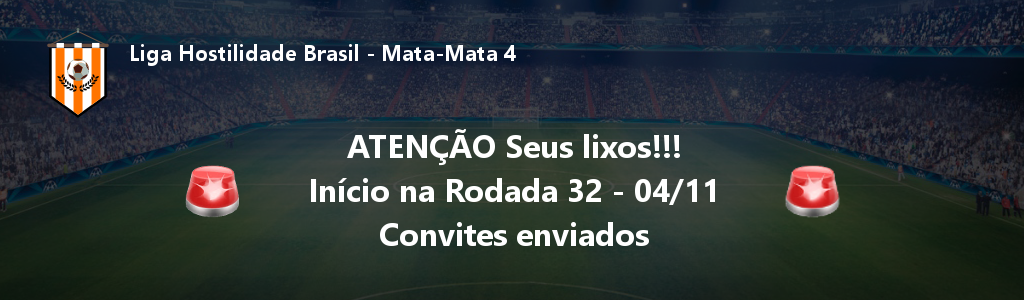
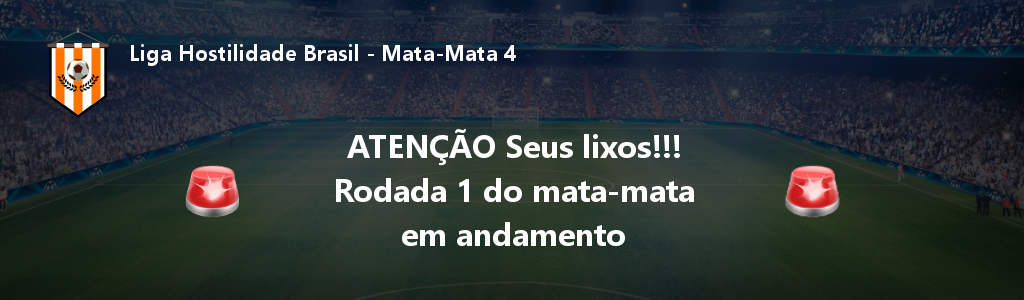
caurosel picture update

Changed region(s): [[0.2812, 0.6, 0.7188, 0.69], [0.3438, 0.75, 0.6562, 0.84]]

diff --git a/templates/header.html b/templates/header.html
@@ -49,7 +49,7 @@
       </div>
         
       <div class="item">
-          <a href="matamata.php"><img src="images/caurosel3.png?v=1.0.5" alt="Image"></a>
+          <a href="matamata.php"><img src="images/caurosel3.png?v=1.0.6" alt="Image"></a>
         <div class="carousel-caption">
           
         </div>      
